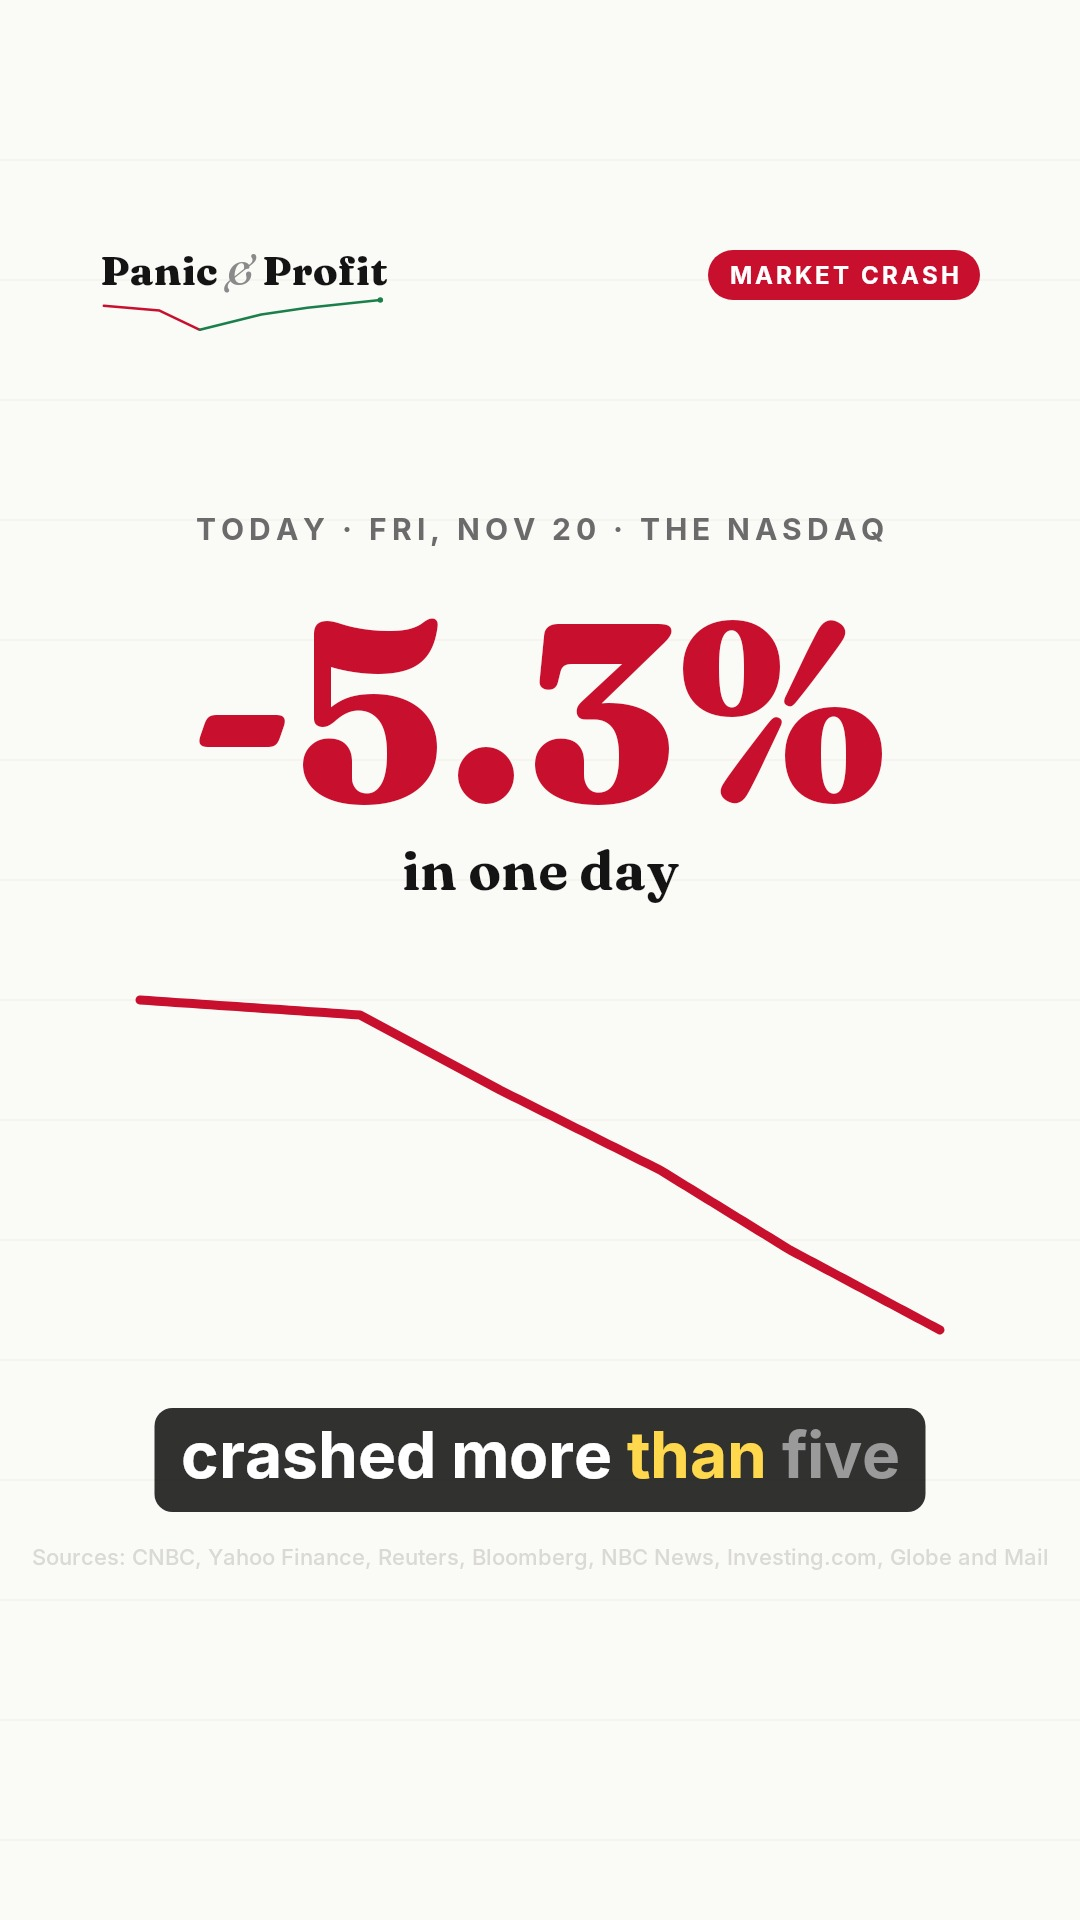
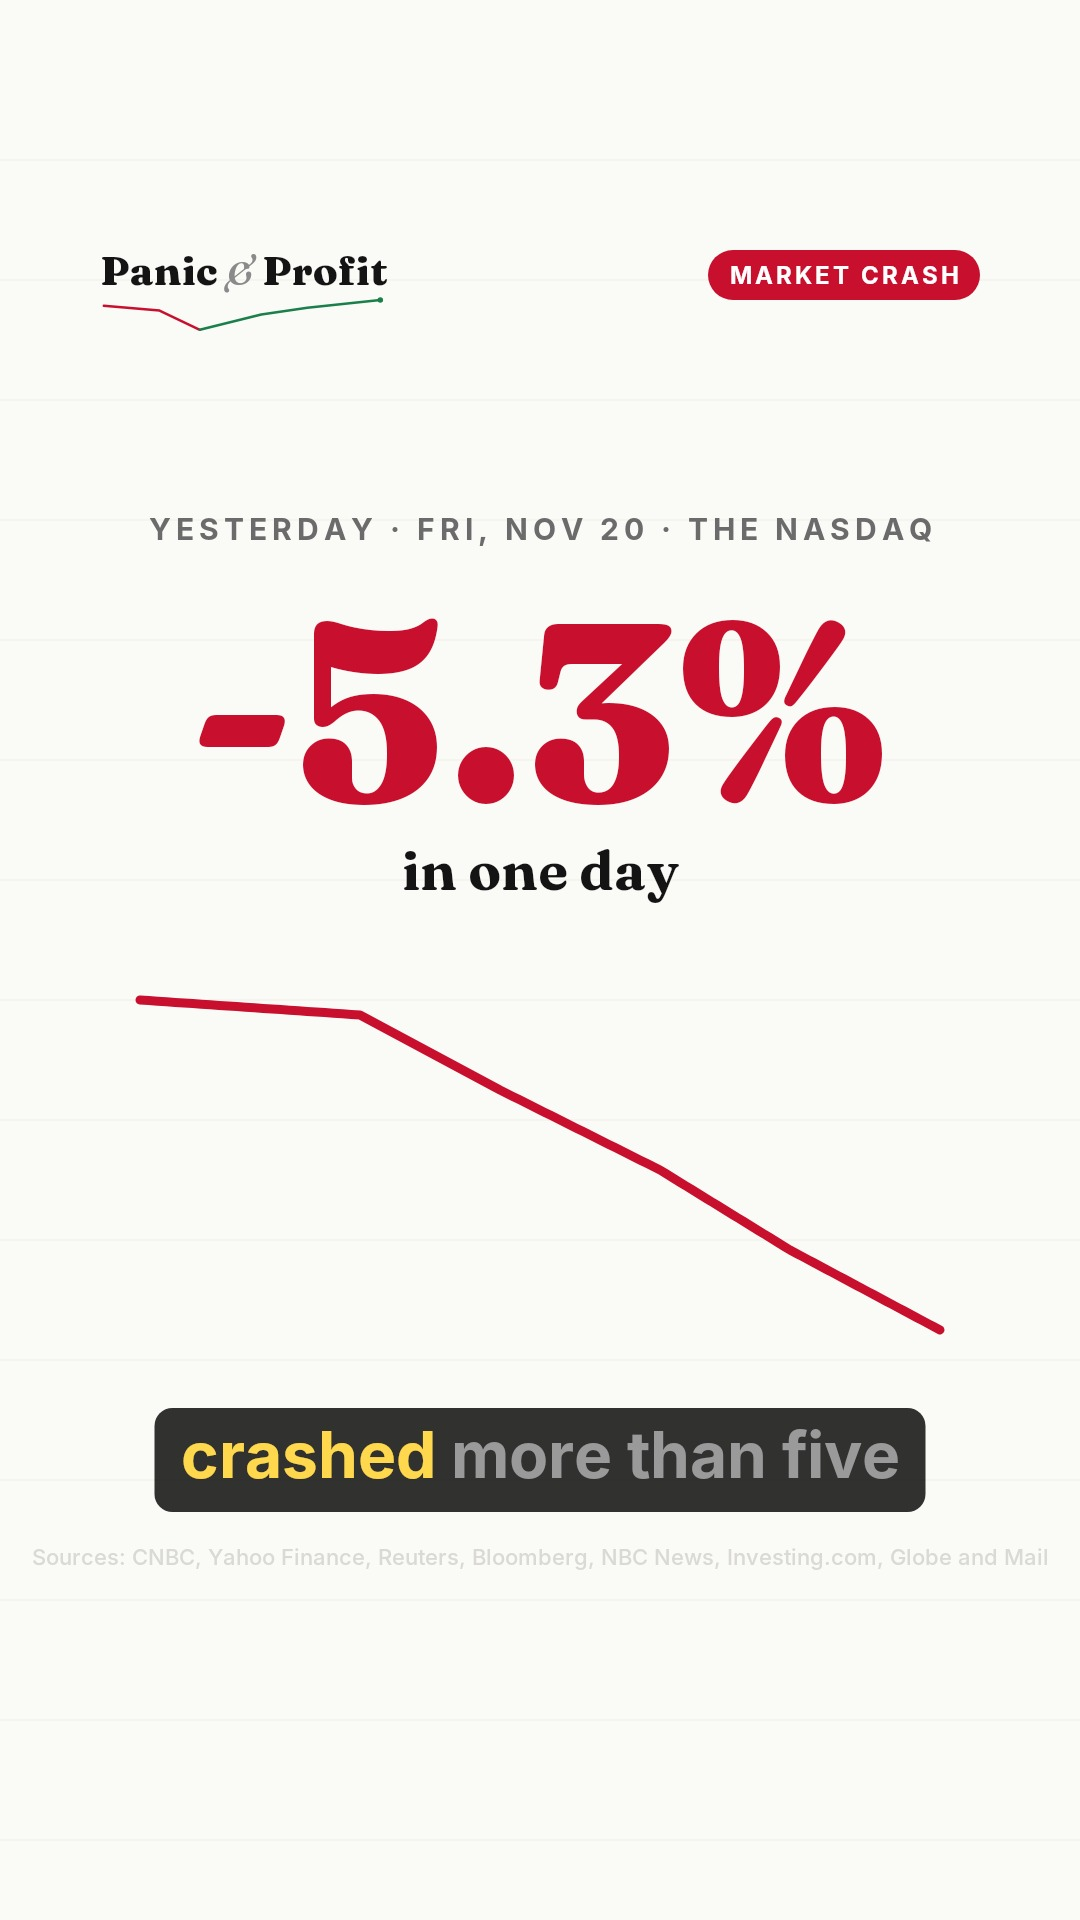
Friday crash Reel reworked as 'yesterday' recap; caption, cover, story
Claude-Session: https://claude.ai/code/session_01HEfkBjtX9jJLAwHVacHrK9

Changed region(s): [[0.1528, 0.25, 0.8556, 0.2812], [0.1528, 0.75, 0.7028, 0.7812]]

diff --git a/instagram/panic-and-profit/daily/2026-11-20-friday/reel/code/render.py b/instagram/panic-and-profit/daily/2026-11-20-friday/reel/code/render.py
@@ -127,7 +127,7 @@ def crawl(c, t):
     alpha_layer(c, a)
     s = "BREAKING  ·  NASDAQ -5.3%  ·  S&P 500 -3.7%  ·  DOW -950  ·  NVIDIA -14%  ·  AMD -13%  ·  BROADCOM -12%  ·  SEC PROBE REPORT  ·  "
     c.drawRect(rect(0, 342, W, 46), paint(hexc(RED)))
-    f = skia.Font(IN[700], 26); w = sum(f.measureText(ch) for ch in s) + 2 * len(s); off = -(t * 140) % w
+    f = skia.Font(IN[700], 26); w = sum(f.measureText(ch) for ch in s) + 2 * (len(s) - 1) + 2; off = -(t * 140) % w
     c.save(); c.clipRect(rect(0, 342, W, 46)); x = off - w
     while x < W: x += text(c, s, x, 374, 26, hexc("#FFFFFF"), IN[700], track=2) + 2
     c.restore(); c.restore()
@@ -136,7 +136,7 @@ def scene_hook(c, t):
     a = 1 - sstep(P[1] - 0.3, P[1] + 0.1, t)
     if a <= 0: return
     alpha_layer(c, a)
-    text(c, "TODAY · FRI, NOV 20 · THE NASDAQ", W / 2, 540, 30, hexc(MUTE), IN[700], "c", track=5)
+    text(c, "YESTERDAY · FRI, NOV 20 · THE NASDAQ", W / 2, 540, 30, hexc(MUTE), IN[700], "c", track=5)
     k = ease_io((t - 0.4) / 2.2)
     text(c, f"-{5.3 * k:.1f}%", W / 2, 800, 250, hexc(RED), FR[800], "c")
     text(c, "in one day", W / 2, 890, 54, hexc(INK), FR[700], "c")
@@ -154,7 +154,7 @@ def scene_indexes(c, t):
     a = overlay(t, P[1] - 0.2, PE[1] + 0.2)
     if a <= 0: return
     alpha_layer(c, a)
-    text(c, "TODAY'S CLOSE · FRI, NOV 20", W / 2, 470, 30, hexc(MUTE), IN[700], "c", track=5)
+    text(c, "FRIDAY'S CLOSE · NOV 20", W / 2, 470, 30, hexc(MUTE), IN[700], "c", track=5)
     rows = (("NASDAQ", "-5.3%"), ("S&P 500", "-3.7%"), ("DOW", "-950 pts"))
     for i, (nm, v) in enumerate(rows):
         tt = P[1] + i * 0.35
@@ -165,7 +165,7 @@ def scene_indexes(c, t):
         c.drawRRect(rrect(-400, -66, 800, 132, 66), paint(hexc("#FFF1F3" if hot else "#FFFFFF"))); c.drawRRect(rrect(-400, -66, 800, 132, 66), paint(hexc(RED if hot else INK), stroke=6 if hot else 4))
         text(c, nm, -350, 18, 50, hexc(INK), FR[800]); tri(c, 60, 0, 32, False, hexc(RED)); text(c, v, 350, 22, 62, hexc(RED), FR[800], "r")
         c.restore()
-    for i, (lab, tt) in enumerate((("7TH STRAIGHT LOSS", wtime("seventh", 1)), ("-8.6% THIS WEEK", wtime("eight", 1)))):
+    for i, (lab, tt) in enumerate((("7TH STRAIGHT LOSS", wtime("seventh", 1)), ("-8.6% THE WEEK", wtime("eight", 1)))):
         if t < tt: continue
         s = clamp(back_out((t - tt) / 0.4), 0, 1.2); x = 300 + i * 480
         c.save(); c.translate(x, 1100); c.rotate(-4 + 8 * i); c.scale(s, s)

diff --git a/instagram/panic-and-profit/daily/2026-11-20-friday/reel/code/voice_en.py b/instagram/panic-and-profit/daily/2026-11-20-friday/reel/code/voice_en.py
@@ -2,8 +2,8 @@
 import json, os, numpy as np, soundfile as sf
 ROOT = os.path.dirname(os.path.dirname(os.path.abspath(__file__)))
 PHRASES = [
-    (0.30, "Wall Street just had the worst day of this selloff. The Nasdaq crashed more than five percent."),
-    (0.40, "The S&P 500 fell three point seven percent, its seventh straight loss, and more than eight percent this week alone."),
+    (0.30, "Yesterday, Wall Street had the worst day of this selloff. The Nasdaq crashed more than five percent."),
+    (0.40, "The S&P 500 fell three point seven percent, its seventh straight loss. Over the whole week, it lost more than eight percent."),
     (0.35, "Three blows hit at once."),
     (0.35, "Blow one: Reuters reported that the SEC is examining Nvidia's accounting. Nvidia fell fourteen percent. AMD and Broadcom, down twelve or more."),
     (0.35, "Blow two: President Trump threatened a tremendous tax on companies that build AI data centers overseas."),
